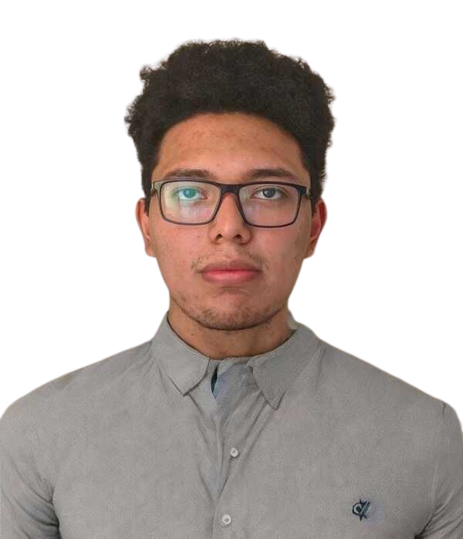
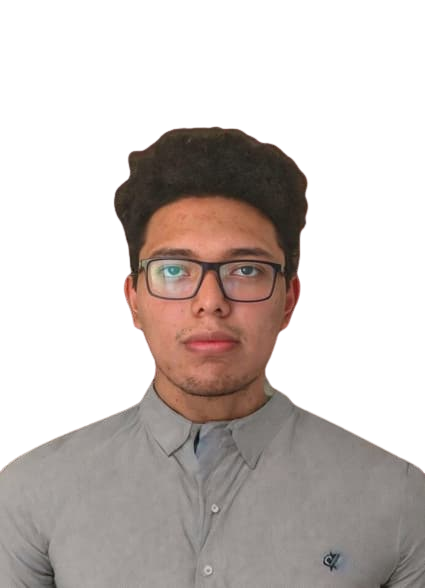
compresion de imgs

diff --git a/utils/data.js b/utils/data.js
@@ -41,7 +41,7 @@ export const projectsInfo = [
         id: 1,
         title: 'backroad proyect cst',
         description: 'This proyect is made with react js',
-        image:"/images/projects/1.png",
+        image:"/images/projects/1.jpg",
         tag: ["All", "WEB","React"],
         link:'https://backroad-apps.netlify.app',
         codeLink: 'https://github.com/Davidcastel26/Backroads-Project'
@@ -50,7 +50,7 @@ export const projectsInfo = [
         id: 2,
         title: 'our menu react cst',
         description: 'This proyect is made with react js',
-        image:"/images/projects/2.png",
+        image:"/images/projects/2.jpg",
         tag: ["All", "WEB","React"],
         link:'https://our-menu-react-dc.netlify.app/',
         codeLink:'https://github.com/Davidcastel26/our-menu-react'
@@ -59,7 +59,7 @@ export const projectsInfo = [
         id: 3,
         title: 'Slider starter cst',
         description: 'This proyect is made with react js',
-        image:"/images/projects/3.png",
+        image:"/images/projects/3.jpg",
         tag: ["All", "WEB","NextJs"],
         link:'https://slider-starter-cast.netlify.app/',
         codeLink:'https://github.com/Davidcastel26/slider-starter-react'

diff --git a/app/components/HeroSection.jsx b/app/components/HeroSection.jsx
@@ -47,8 +47,8 @@ export const HeroSection = () => {
                 <Image 
                     src='/images/hero3.png'
                     alt="hero image"
-                    className="absolute transform -translate-x-1/2 -translate-y-1/2 top-1/2 left-1/2"
-                    width={400}
+                    className="absolute transform -translate-x-1/2 -translate-y-1/3 top-1/4 left-1/2"
+                    width={300}
                     height={400}
                 />
             </div>

diff --git a/app/components/AboutSection.jsx b/app/components/AboutSection.jsx
@@ -23,7 +23,7 @@ export const AboutSection = () => {
             className="md:grid md:grid-cols-2 gap-8 items-center py-8 px-4 xl:gap-16 sm:py-16 xl:px-16"
         >
             <Image
-             src="/images/about.jpeg"
+             src="/images/about.jpg"
              width={500}
              height={400}
              alt='img'
